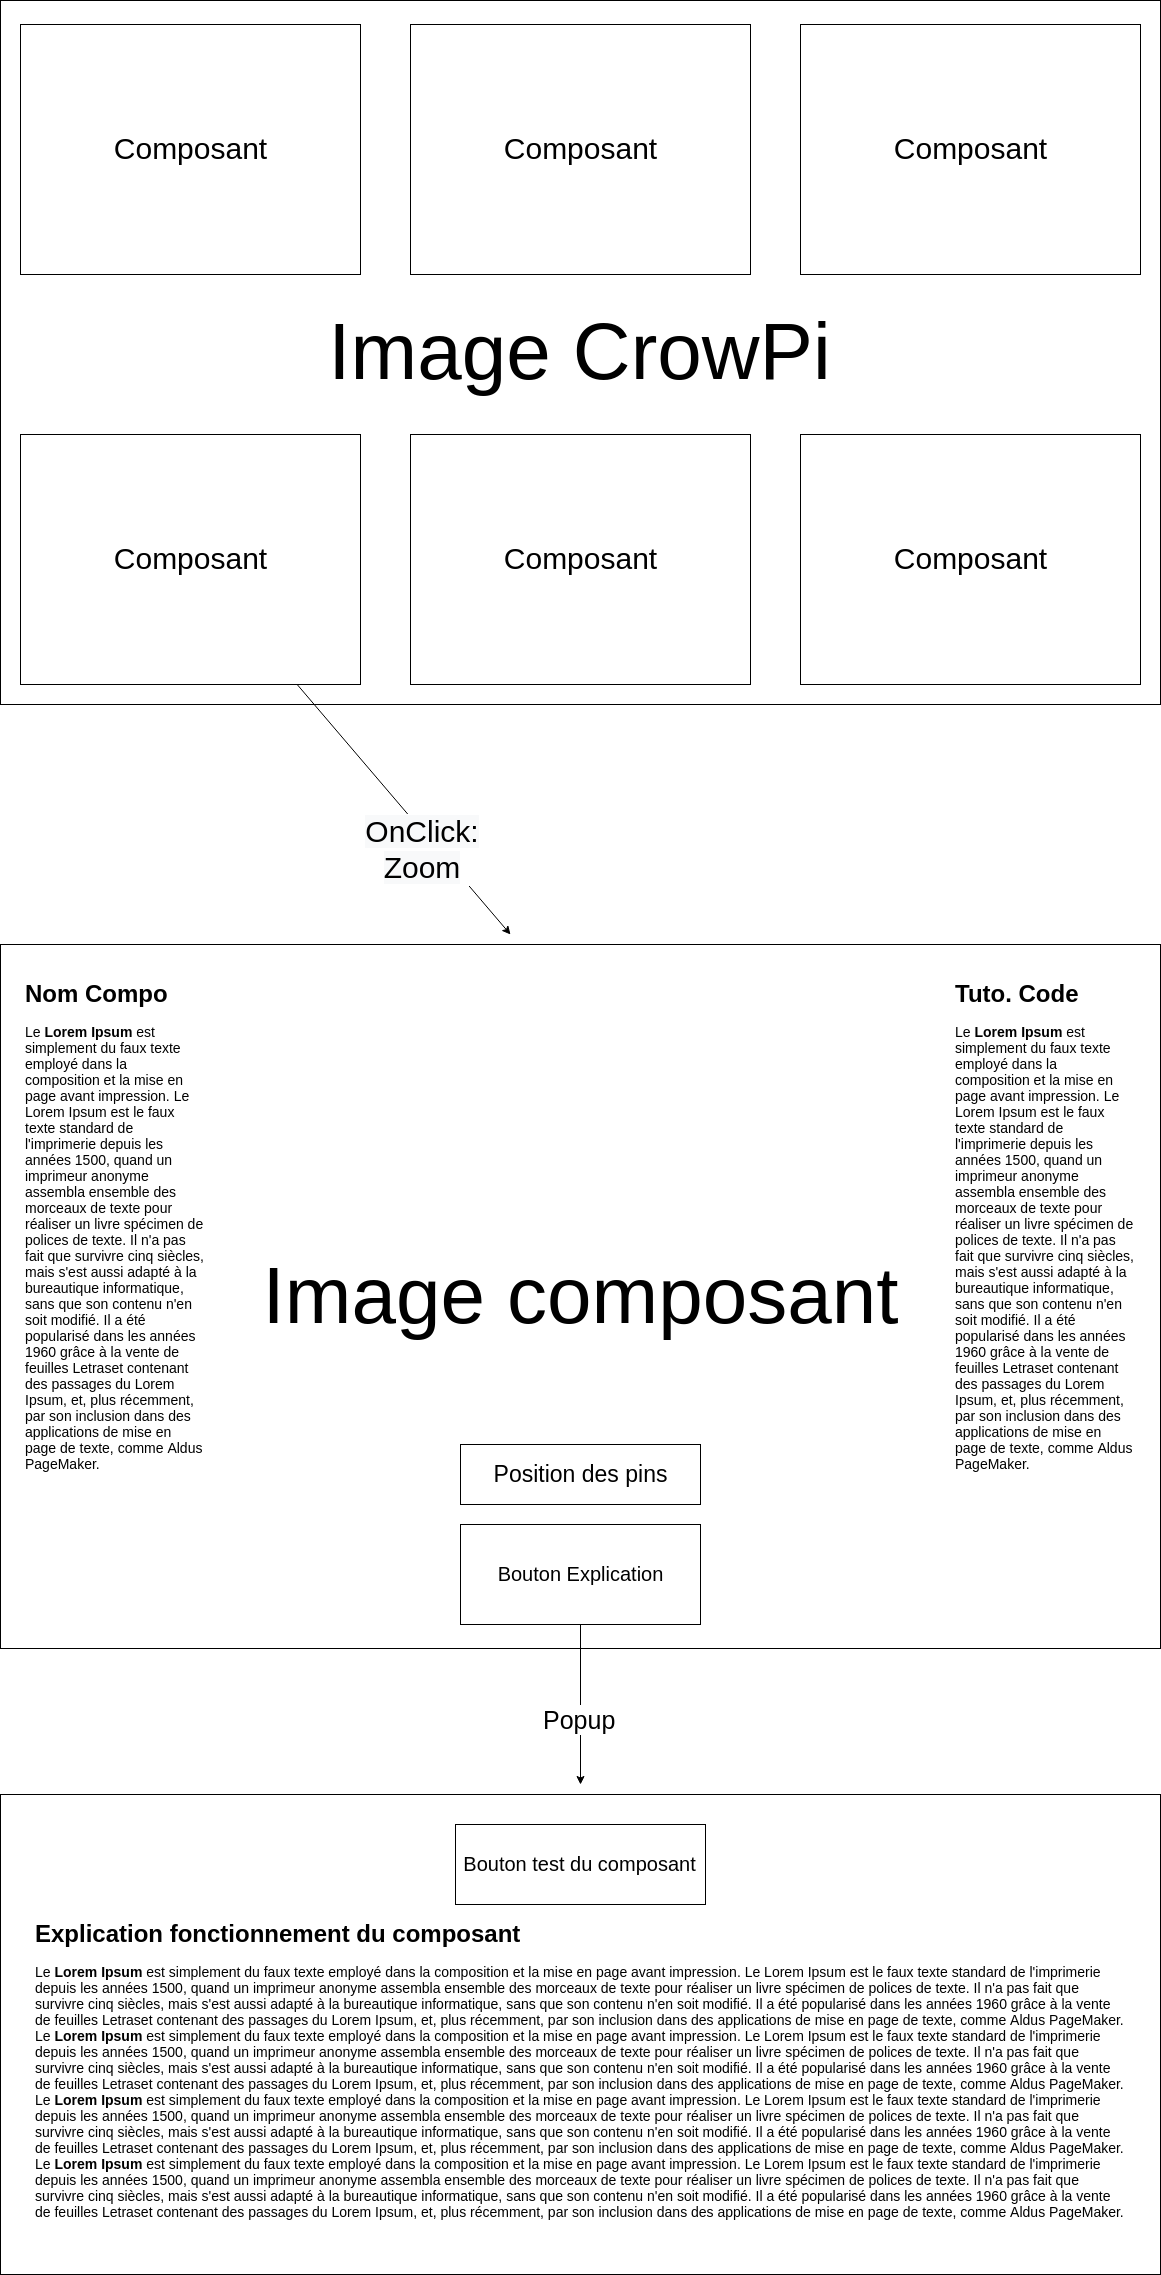
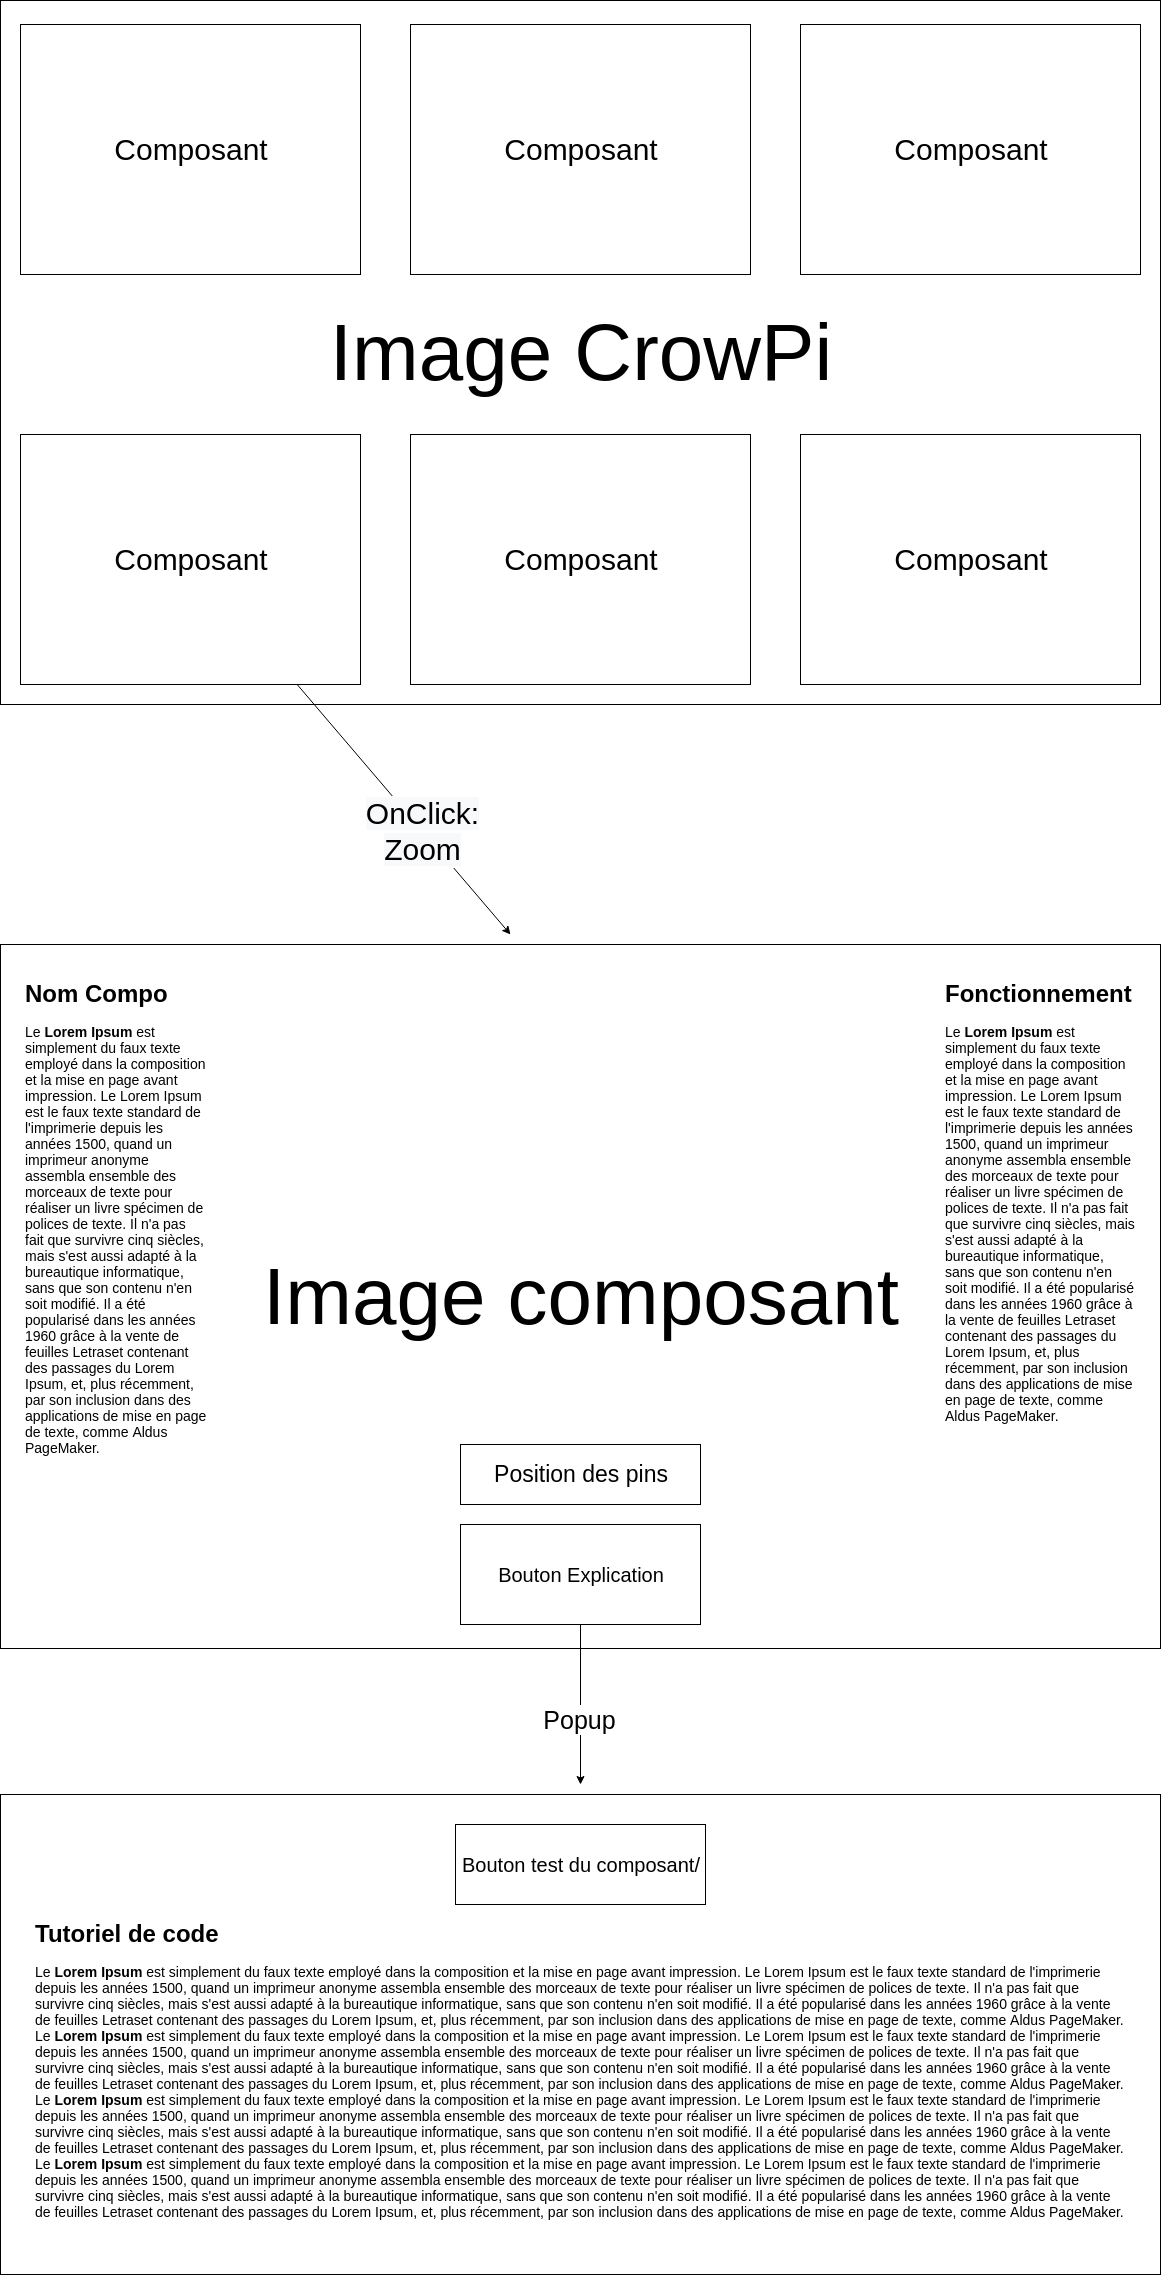
Component page added

diff --git a/componentClass.py b/componentClass.py
@@ -3,25 +3,46 @@ from PIL import Image, ImageTk
 import json
 
 class Component:
-    def Display(self):
-        componentWindow = Toplevel()
-        Button(componentWindow, text ='Bouton 1').pack(side=LEFT, padx=42, pady=5)
-        Button(componentWindow, text ='Go Back', command=componentWindow.destroy).pack(side=RIGHT, padx=5, pady=5)
+    def Display(self, componentName):
+        componentWindow = Toplevel() 
 
         bgImage = ImageTk.PhotoImage(Image.open("images/CrowPiDessin.jpg")) # Create a render of the background image
 
         lblImage = Label(componentWindow, image=bgImage) # Create a label on the root form, the picture and the height
         lblImage.place(x=-1, y=-1) # Change the position of the label
 
+        Button(componentWindow, text ='Go Back', command=componentWindow.destroy).place(x=475, y=50)
+
         #Get the jsonfile Datas
         with open('componentsData.txt') as json_file:
             data = json.load(json_file)
             dataString = ""
             for i in data:#Go through all the components
-                if i == "cmpF":  #If it reachs the searched component
-                    for j in data['cmpF']: #Go through a component datas
-                        print(j['name']) #Display what is needed
-                        lbl = Label(componentWindow, text=j['name'])
-                        lbl.place(x=500, y=600)
+                if i == componentName:  #If it reachs the searched component
+                    component = data[componentName] #Go through a component datas
+                    #Display what is needed
+                    lblName = Label(componentWindow, text=component['Name'], font=("courrier", 25))
+                    lblName.place(x=30, y=50)
+                    
+                    lblDescription = Label(componentWindow, text=component['Description'], font=("courrier", 12), wraplength=300)
+                    lblDescription.place(x=30, y=100)
+                    
+                    lblFunctionnementTitle = Label(componentWindow, text="Fonctionnement", font=("courrier", 25))
+                    lblFunctionnementTitle.place(x=725, y=50)
+
+                    lblFunctionnement = Label(componentWindow, text=component['Functionnement'], font=("courrier", 12))
+                    lblFunctionnement.place(x=725, y=100)
+                   
+                    global componentImage
+                    componentImage = ImageTk.PhotoImage(file = r"images/boutonPad.jpg")
+                    lblImage = Label(componentWindow, image=componentImage) # Create a label on the root form, the picture and the height
+                    lblImage.place(x=480, y=250) # Change the position of the label
+
+                    Button(componentWindow, text ='Go Back', command=componentWindow.destroy).place(x=475, y=50)
+
+                    lblPins = Label(componentWindow, text=component['Pins'], font=("courrier", 20)) #Should be a picture
+                    lblPins.place(x=480, y=450)
+
+                    Button(componentWindow, text ='Test/Description technique', command=componentWindow.destroy).place(x=450, y=500)
         componentWindow.attributes("-fullscreen", True) 
         componentWindow.mainloop()

diff --git a/main.py b/main.py
@@ -6,7 +6,7 @@ import componentClass
 class Main: 
     def DisplayButton(window, o):
         def Callback():
-            o.Display()
+            o.Display("cmpF")
         # Garbage collector delete it, if it's not global.
         global imageBoutonPad
         global imageBoutonsGrid
@@ -83,7 +83,4 @@ class Main:
     root = DisplayButton(root, o) # Call the display button method
 
     root.attributes("-fullscreen", True) # Resize the form in fullscreen
-    root.mainloop() # Load the form
-    
-
- 
+    root.mainloop() # Load the form 
